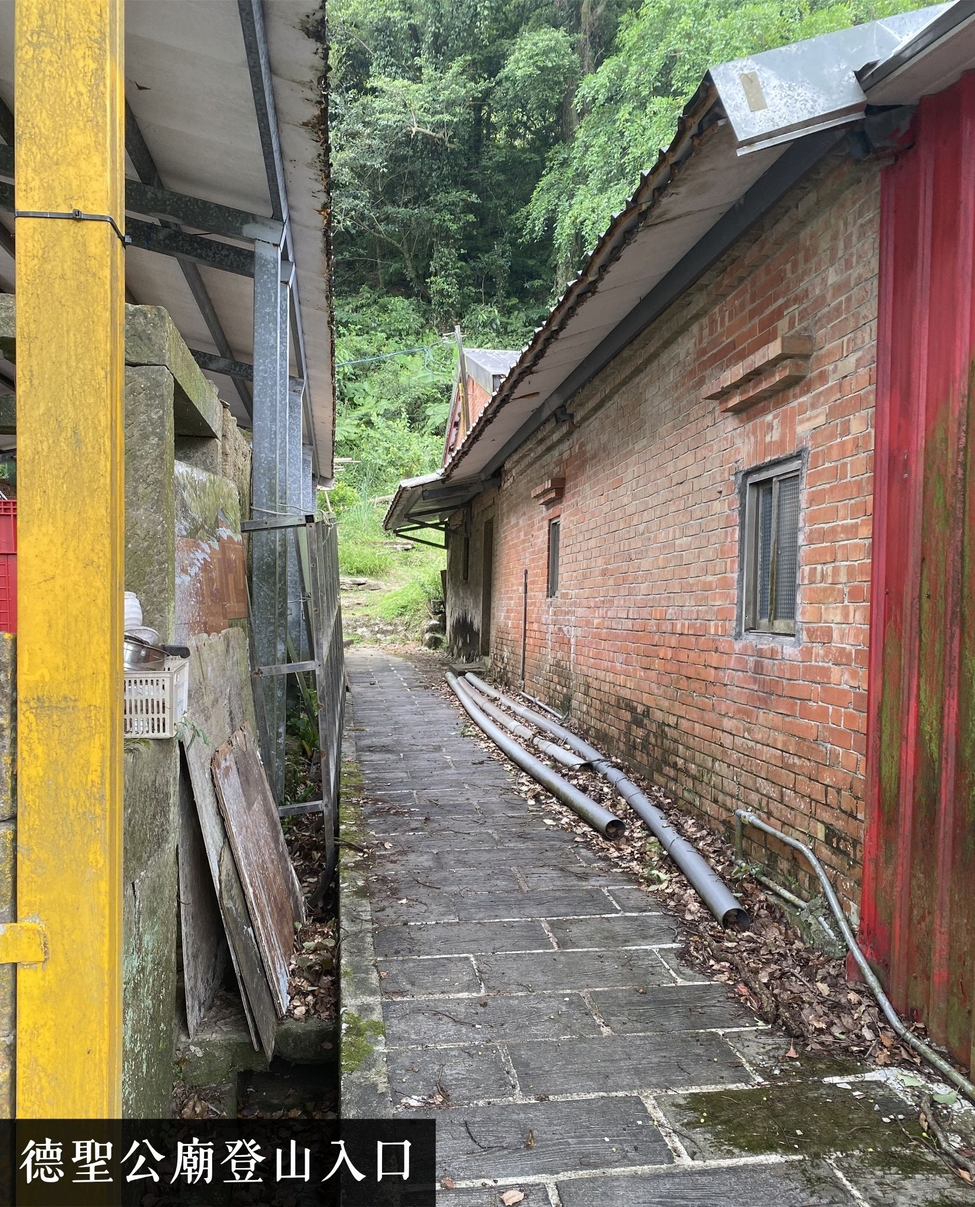
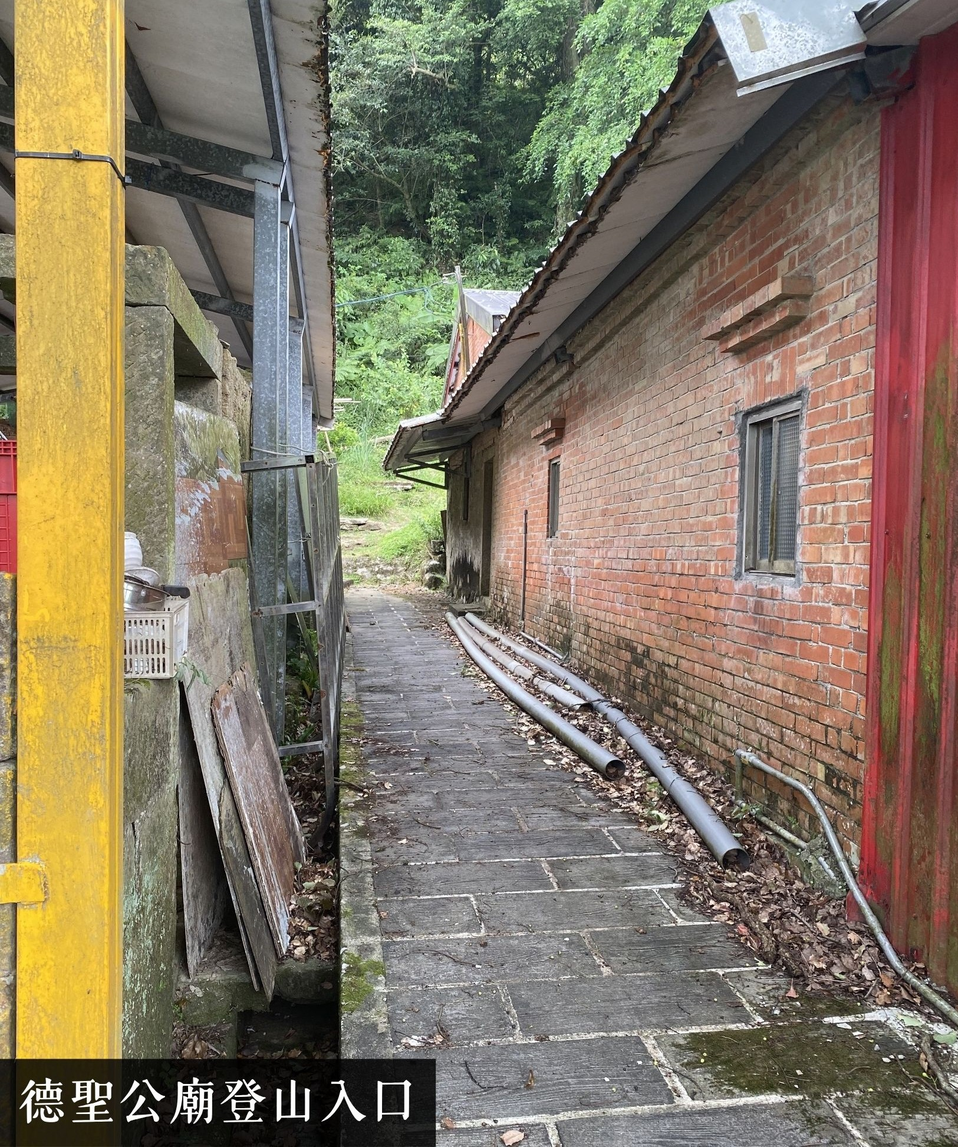
修改排版與錯字

diff --git a/content/desheng_osmmap.html b/content/desheng_osmmap.html
@@ -32,7 +32,7 @@
         }
     ).addTo(map);
 
-    fetch('deshengroute.geojson')
+    fetch('./deshengroute.geojson')
         .then(response => response.json())
         .then(data => {
             L.geoJSON(data).addTo(map);

diff --git a/content/desheng.md b/content/desheng.md
@@ -28,7 +28,6 @@
 
 :::{image} ./photo/desheng/20260807_deshengentrance.jpg
 :alt: 德聖公廟登山入口照片
-:width: 60%
 :::
 
 :::{div} 
@@ -43,19 +42,18 @@
 
 :::{image} ./photo/desheng/20260812_deshengappearance.jpg
 :alt: 德聖公廟外觀照片
-:width: 60%
 :::
 
 :::{div} 
-紅、藍、綠色碎片閃耀的四散在廟宇周遭，廟頂的裝飾與雜草更透露出歲月的痕跡，面對廟宇的左側有著約與廟同高的金亭，可惜原有的彩繪已然掉色。走進廟內，首先映入眼簾的是嵌於牆上的**「德聖公」**牌位。余軟爺爺說道：這個名字是由道士算命而來，「德」取自「福德正神」[^2]，「聖」則有「靈驗」之意。兩側的對聯**「德修有道必靈世，聖神求公應正仁─神在其上」**不僅突顯出祭祀對象之名，也呼應該廟宇有求必應、有感皆通的神蹟。
+紅、藍、綠色碎片閃耀的四散在廟宇周遭，廟頂的裝飾與雜草更透露出歲月的痕跡，面對廟宇的左側有著約與廟同高的金亭，可惜原有的彩繪已然掉色。走進廟內，首先映入眼簾的是嵌於牆上的 **「德聖公」** 牌位。余軟爺爺說道：這個名字是由道士算命而來，「德」取自「福德正神」[^2]，「聖」則有「靈驗」之意。兩側的對聯 **「德修有道必靈世，聖神求公應正仁─神在其上」** 不僅突顯出祭祀對象之名，也呼應該廟宇有求必應、有感皆通的神蹟。
 :::
 
 ::::
 
 
-據余爺爺所述，日治時期時神明曾指示信眾來到此處向孤魂祈求，據說相當靈驗，於是，人們便在步道旁建立一座石板小廟[^3]以奉祀這些孤魂。直至 1980 年代大家樂盛行時，許多賭客慕名而來，其中一位賭客在第二期中獎後，依照原先的承諾，將兩成獎金用於建廟。
+據余爺爺所述，日治時期時，神明曾指示信眾來到此處向孤魂祈求，據說相當靈驗，於是，人們便在步道旁建立一座石板小廟[^3]以奉祀這些孤魂。直至 1980 年代大家樂盛行時，許多賭客慕名而來，其中一位賭客在第二期中獎後，依照原先的承諾，將兩成獎金用於建廟。
 
-如今的德聖公廟便是當時建成的，相較於原先的石板廟，現今的更加接近山坡，座向則同樣朝向 330°N[^4]。至於廟宇周遭四散的裝飾碎片是因為建廟後期成本不足，因此採用的技藝非一般的方式，經過長時間的風吹日曬與雨水沖刷等原因而剝落，散落在廟宇周圍。
+如今的德聖公廟便是當時建成的，相較於原先的石板廟，現今的更加接近山坡，座向則無變化，同樣朝向 330°N[^4]。至於廟宇周遭四散的裝飾碎片是因為建廟後期成本不足，因此採用的技藝非一般的方式，經過長時間的風吹日曬與雨水沖刷等原因而剝落，散落在廟宇周圍。
 
 
 <iframe 

diff --git a/content/zhaoangongwanshantsi.md b/content/zhaoangongwanshantsi.md
@@ -6,7 +6,7 @@
 
 南港昭安宮位於仁福里成福路 296 巷，由於過去周遭一帶為煤礦開採區，時任副礦長的林信先生為祈求採礦平安並念及思鄉情緒，遂從故鄉──雲林縣台西鄉溪頂昭安府迎請三府千歲，即李府千歲、池府千歲與天府千歲的神像，供奉於家中。後因神明時常為信眾消災解厄，聲名逐漸遠播，成為當地採礦工人的信仰中心，進而於民國 74 年動工建廟，民國 79 年完成入火安座慶典。
 
-昭安宮萬善祠則位於正殿北側，即面對廟宇的左側，規模較德聖公廟稍小一些，但仍具有可供人進入祭拜的空間。根據當地居民口述，萬善祠早在數百年前就以石板小廟的形式存在於此地，在地方佔有一席之位，因此當初昭安宮欲在此地建廟時，須徵得祂的同意。而後，廟方請道士來此與祂溝通，祂提出的條件便是重修並擴建原有的小廟，同時得出小廟裡的神明為白雲仙姑，因此稱其 **萬善祠白雲仙姑** 。
+昭安宮萬善祠則位於正殿北側，即面對廟宇的左側，規模較德聖公廟稍小一些，但仍具有可供人進入祭拜的空間。根據當地居民口述，萬善祠早在數百年前就以石板小廟的形式存在於此地，在地方佔有一席之位，因此當初昭安宮欲在此地建廟時，須徵得祂的同意。而後，廟方請道士來此與祂溝通，祂提出的條件便是重修並擴建原有的小廟，同時得出小廟裡的神明為白雲仙姑，因此稱其 **「萬善祠白雲仙姑」** 。
 
 萬善祠內供奉著白雲仙姑的神像，廟前設有天公爐，廟頂可見翹脊、鳳的造型，呈現出陽廟化的現象。此外，廟口對聯寫著 **「萬里白雲長顯赫，善居南港永馨香」** ，不僅融入廟名「萬善」和祭祀對象「白雲仙姑」，「顯赫」與「馨香」也帶有神威顯赫、香火延續的意涵，同時呈顯出廟宇與地方的關聯性。
 

diff --git a/content/wanshantang.md b/content/wanshantang.md
@@ -18,7 +18,7 @@
 
 嵌於廟內牆上的排位寫著 **「萬善堂公祠 民國戊辰年重修」** ，其中戊辰年可對應到民國 17 年（西元 1928 年）或民國 77 年（西元 1988 年）。考量廟宇目前的建築材質與整體保存狀況，推測較可能是在民國 77 年時重修。不過，由於目前缺乏相關文獻，加上萬善堂周遭住家較少，本次田野調查期間未能找到附近居民詢問廟宇的相關事蹟，因此，此判斷與實際建廟時間有待進一步考證。
 
-值得注意的是，廟口旁的牆面上依稀可見幾行紅字，經辨識、還原後可得「紅塵名利色三關，賺得凡夫日夜忙，累到頭來無別事，滿腔苦訴閻王」與「急急忙忙苦追求，寒寒暖暖度春秋，朝朝暮暮營家計，皞皞昏昏白了頭」。前一段出自淨土宗法語中的無常法語，後一段出自明朝學者羅洪先所作的醒世詩。綜合來看，兩段文字描寫了人們一生追逐名利，為家庭生計奔波，最終仍難以避免死亡，具有勸說世人不需過度執著於世俗的慾望與看淡名利的警世意味，反映出人們對於生死與人生價值觀的想法。
+值得注意的是，廟口旁的牆面上依稀可見幾行紅字，經辨識、還原後可得 **「紅塵名利色三關，賺得凡夫日夜忙，累到頭來無別事，滿腔苦訴閻王」** 與 **「急急忙忙苦追求，寒寒暖暖度春秋，朝朝暮暮營家計，皞皞昏昏白了頭」**。前一段出自淨土宗法語中的無常法語，後一段出自明朝學者羅洪先所作的醒世詩。綜合來看，兩段文字描寫了人們一生追逐名利，為家庭生計奔波，最終仍難以避免死亡，具有勸說世人不需過度執著於世俗的慾望與看淡名利的警世意味，反映出人們對於生死與人生價值觀的想法。
 
 -----
 

diff --git a/content/bailing.md b/content/bailing.md
@@ -2,12 +2,14 @@
 
 **陳彥羽／2026 年 9 月 26 日**
 
+-----
+
 #### 前言
-《台北市南港區公所 102 年區務統計要覽》中的神壇、寺廟、財團法人寺廟一覽表，記錄了山豬窟掩埋場內有一間建於民國 18 年 9 月 9 日（西元 1929 年）的百靈公廟。除了官方資料，從一些登山客的部落格紀錄中也可窺見其身影，廟宇本體約與人同高，廟前涼亭則是山友稍做休憩、避雨的所在。而這座擁有近百年歷史的廟宇有著什麼樣的故事呢？我帶著這份好奇，實際前往廟宇一探究竟。
+《台北市南港區公所 102 年區務統計要覽》中的神壇、寺廟、財團法人寺廟一覽表，記錄了山豬窟掩埋場內有一間建於民國 18 年 9 月 9 日（西元 1929 年）的百靈公廟。除了官方資料，從一些登山客的部落格紀錄中也可窺見其身影。而這座擁有近百年歷史的廟宇有著什麼樣的故事呢？我帶著這份好奇，實際前往廟宇一探究竟。
 
 -----
 
-#### 實地踏查
+#### 實地踏查結果
 百靈公廟位於現今的山水綠生態公園內，其前身為山豬窟垃圾衛生掩埋場。過去園區內也曾有住宅，但因地基不穩而拆除。而後，經過土地整治與環境復育，逐漸成為保護生態、提供民眾休憩的場所。
 
 相較於聖媽廟與德聖宮廟，前往百靈公廟的路途平易近人許多。進入山水綠生態公園後，沿著柏油路前行，途經福聖宮與遊客中心，再越過一座小橋後便可抵達百靈公廟[^1]。
